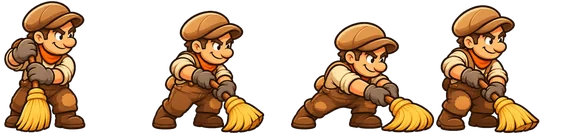
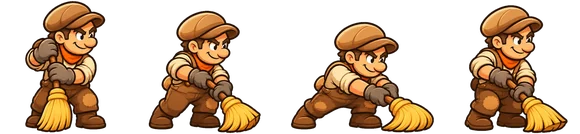
Animazioni di Cane, Gatto, Topo, Gazza (anche con l'uovo), Ladro (anche con l'uovo) e Spaventapasseri colpito; nuova icona dello Spaventapasseri; tutti i fogli ritagliati per forme intere
Claude-Session: https://claude.ai/code/session_01HfaWZ85fbzKyRqfxnb746i

diff --git a/index.html b/index.html
@@ -1388,16 +1388,22 @@ const abilRow=k=>(ABIL[k]||[]).length?`<span class="tabil">${ABIL[k].map(a=>`<im
 // personaggi animati (cartella icons/anim/): striscia orizzontale di n fotogrammi, il personaggio guarda a destra.
 // stride = pixel percorsi per fotogramma; h = altezza in campo. Chi non è qui usa l'icona nel tondino.
 const ANIM={
-  faina:{h:31,stride:7,walk:{n:4,fw:153,fh:131,ax:.5},atk:{n:4,fw:181,fh:130,ax:.47}},
-  mucca:{h:40,stride:6,walk:{n:4,fw:176,fh:134,ax:.5},atk:{n:4,fw:204,fh:139,ax:.409}},
-  tacchino:{h:34,stride:5,walk:{n:4,fw:127,fh:130,ax:.5},atk:{n:4,fw:156,fh:137,ax:.432}},
-  lupo:{h:33,stride:9,walk:{n:4,fw:199,fh:158,ax:.5},atk:{n:4,fw:203,fh:143,ax:.496}},
-  mais:{h:42,st:{n:4,fw:95,fh:130,ax:.501}},
-  spazzino:{h:38,stride:7,walk:{n:4,fw:92,fh:132,ax:.5},atk:{n:4,fw:145,fh:134,ax:.309}},
-  corvo:{h:40,fly:{n:4,fw:151,fh:179,ax:.994,ox:62},atk:{n:4,fw:167,fh:173,ax:.968,ox:62}},
+  faina:{h:31,stride:7,walk:{n:4,fw:153,fh:131,ax:.5},atk:{n:4,fw:181,fh:130,ax:.541}},
+  mucca:{h:40,stride:6,walk:{n:4,fw:175,fh:134,ax:.5},atk:{n:4,fw:204,fh:139,ax:.519}},
+  tacchino:{h:34,stride:5,walk:{n:4,fw:127,fh:130,ax:.5},atk:{n:4,fw:160,fh:137,ax:.46}},
+  lupo:{h:33,stride:9,walk:{n:4,fw:199,fh:158,ax:.5},atk:{n:4,fw:227,fh:143,ax:.472}},
+  cane:{h:31,stride:8,walk:{n:4,fw:185,fh:137,ax:.5},atk:{n:4,fw:199,fh:145,ax:.504}},
+  gatto:{h:29,stride:6,walk:{n:4,fw:145,fh:133,ax:.5},atk:{n:4,fw:177,fh:138,ax:.459}},
+  topi:{h:20,stride:5,walk:{n:4,fw:223,fh:137,ax:.5}},
+  ladro:{h:36,stride:6,walk:{n:4,fw:120,fh:130,ax:.5},carry:{n:4,fw:120,fh:134,ax:.5}},
+  spazzino:{h:38,stride:7,walk:{n:4,fw:92,fh:132,ax:.5},atk:{n:4,fw:145,fh:134,ax:.453}},
+  mais:{h:42,st:{n:4,fw:96,fh:130,ax:.504}},
+  spaventa:{h:44,hit:{n:4,fw:122,fh:143,ax:.514}},
+  corvo:{h:40,fly:{n:4,fw:151,fh:179,ax:.994,ox:62},atk:{n:4,fw:172,fh:173,ax:.983,ox:62}},
+  gazza:{h:40,fly:{n:4,fw:186,fh:193,ax:.994,ox:78},carry:{n:4,fw:184,fh:192,ax:.994,ox:78}},
 };
 // file: icons/anim/<personaggio>-walk|atk|fly.webp; ax = punto d'aggancio nel fotogramma (0 sinistra, 1 destra), ox = suo spostamento dal centro (px a scala 128)
-for(const k in ANIM)for(const m of ['walk','atk','fly','st'])if(ANIM[k][m]){const a=ANIM[k][m];a.im=new Image();a.im.src=`icons/anim/${k}-${m}.webp`}
+for(const k in ANIM)for(const m of ['walk','atk','fly','st','carry','hit'])if(ANIM[k][m]){const a=ANIM[k][m];a.im=new Image();a.im.src=`icons/anim/${k}-${m}.webp`}
 // icone disegnate degli ordini (cartella icons/, file ord-<chiave>.webp); se non si caricano resta l'emoji
 const OIMG={};
 for(const k in ORDERS){ORDERS[k].img='icons/ord-'+k+'.webp';const im=new Image();im.src=ORDERS[k].img;OIMG[k]=im}
@@ -2158,7 +2164,7 @@ function drawToken1(x,y,side,type,star,order,o={}){
   let yy=y; if(d.flying){ctx.fillStyle='rgba(0,0,0,.22)';ctx.beginPath();ctx.ellipse(x,y+10,11,4,0,0,7);ctx.fill();yy=y-12}
   const lx=o.lunge>0?o.face*5:0;
   ctx.globalAlpha=o.invis?.38:o.disguised?.6:1;
-  const A=ANIM[type],ld=a=>a&&a.im.complete&&a.im.naturalWidth,base=A&&(ld(A.walk)?A.walk:ld(A.fly)?A.fly:ld(A.st)?A.st:null),sp=!!base;
+  const A=ANIM[type],ld=a=>a&&a.im.complete&&a.im.naturalWidth,base=A&&(ld(A.walk)?A.walk:ld(A.fly)?A.fly:ld(A.st)?A.st:ld(A.hit)?A.hit:null),sp=!!base;
   if(sp){// personaggio animato: anello ovale del colore della squadra ai piedi, poi il fotogramma giusto
     const fy=y+13,ring=o.col||SIDE[side].col,now=performance.now()/1000;
     if(d.flying){ctx.fillStyle='rgba(0,0,0,.22)';ctx.beginPath();ctx.ellipse(x,y+10,13,4.5,0,0,7);ctx.fill()}
@@ -2168,12 +2174,15 @@ function drawToken1(x,y,side,type,star,order,o={}){
     ctx.strokeStyle=ring;ctx.lineWidth=3;ctx.beginPath();ctx.ellipse(x,ry,16.5,6,0,0,7);ctx.stroke();
     if(star>1){ctx.save();if(star===3){ctx.shadowColor='#ffd54a';ctx.shadowBlur=8}ctx.strokeStyle=star===3?'#ffd54a':'#e6ebf2';ctx.lineWidth=2;ctx.beginPath();ctx.ellipse(x,ry,19.5,7.5,0,0,7);ctx.stroke();ctx.restore()}
     let sh=base,f=0,bob=0;const AT=.08;
+    if(o.carry&&ld(A.carry))sh=A.carry;// con l'uovo in mano: corsa apposita (l'uovo è già disegnato nel foglio)
     if(ld(A.atk)&&o.atk!=null&&o.atk<A.atk.n*AT){sh=A.atk;f=Math.floor(o.atk/AT)}
+    else if(ld(A.hit)&&o.hitAge!=null&&o.hitAge<A.hit.n*.09){sh=A.hit;f=Math.floor(o.hitAge/.09)}// colpito: animazione di danno
+    else if(sh===A.hit){f=0}
     else if(sh===A.st){const h=o.hpf??1;f=h>.75?0:h>.5?1:h>.25?2:3}// oggetti fermi: lo stato dipende dalla vita (il Mais perde pannocchie)
-    else if(sh===A.fly){f=Math.floor(now*9)%sh.n;bob=Math.sin(now*4)*1.5}
+    else if(sh===A.fly||(sh===A.carry&&base===A.fly)){f=Math.floor(now*9)%sh.n;bob=Math.sin(now*4)*1.5}
     else if(o.moving){const ph=(o.walk||0)/A.stride;f=Math.floor(ph)%sh.n;bob=-Math.abs(Math.sin(ph*Math.PI))*1.6}
     const k=A.h/128,fw=sh.fw*k,fh=sh.fh*k,ax=sh.ax*fw-(sh.ox||0)*k,top=d.flying?yy-fh/2+bob:fy+2-fh+bob,px=sh===base&&o.lunge>0?(o.face||1)*4:0;
-    ctx.save();if(o.hit>0)ctx.filter='brightness(1.7) saturate(.6)';
+    ctx.save();if(o.hit>0&&!ld(A.hit))ctx.filter='brightness(1.7) saturate(.6)';
     ctx.translate(x+px,0);if(o.face===-1)ctx.scale(-1,1);ctx.drawImage(sh.im,f*sh.fw,0,sh.fw,sh.fh,-ax,top,fw,fh);
     ctx.restore();ctx.font='17px "Apple Color Emoji","Segoe UI Emoji","Noto Color Emoji",sans-serif';ctx.textAlign='center';ctx.textBaseline='middle';
   }else{
@@ -2313,10 +2322,10 @@ function render(){
   for(const u of us){
     if((S.fog||S.mist)&&u.side!==G.me&&!S.units.some(a=>a.alive&&a.side===G.me&&sees(a,u))) continue;
     if(u.def.wall){const hh=u.def.wall*FENCE_L,f=u.hp/u.maxHp;if(f<1){ctx.fillStyle='rgba(0,0,0,.45)';ctx.fillRect(X(u.x)-14,u.y-hh-11,28,5);ctx.fillStyle=SIDE[C(u.side)].col;ctx.fillRect(X(u.x)-14,u.y-hh-11,28*f,5)}continue}
-    {const dd=u._lx==null?0:Math.hypot(u.x-u._lx,u.y-u._ly);u._wd=(u._wd||0)+(dd<20?dd:0);u._mv=dd>.05&&dd<20?.12:Math.max(0,(u._mv||0)-1/60);u._lx=u.x;u._ly=u.y;if(u.lunge>(u._pl||0)+.001)u._at=performance.now();u._pl=u.lunge}
-    drawToken(X(u.x),u.y,C(u.side),u.type,u.star,u.order,{st:statusOf(u,S),walk:u._wd,moving:u._mv>0,atk:u._at?(performance.now()-u._at)/1000:null,col:G.duo&&duoOwner(u)!=null?duoColOf(duoOwner(u)):null,underground:u.underground,invis:u.invis>0,hpf:u.hp/u.maxHp,stun:u.stun,snare:u.snare,hit:u.hit,lunge:u.lunge,face:F?-u.face:u.face,wait:u.wait,turned:u.turned,disguised:u.disguised,boost:u.boostT});
+    {const dd=u._lx==null?0:Math.hypot(u.x-u._lx,u.y-u._ly);u._wd=(u._wd||0)+(dd<20?dd:0);u._mv=dd>.05&&dd<20?.12:Math.max(0,(u._mv||0)-1/60);u._lx=u.x;u._ly=u.y;if(u.lunge>(u._pl||0)+.001)u._at=performance.now();u._pl=u.lunge;if(u.hit>(u._ph||0)+.001)u._ht=performance.now();u._ph=u.hit}
+    drawToken(X(u.x),u.y,C(u.side),u.type,u.star,u.order,{st:statusOf(u,S),carry:u.carrying!==null,hitAge:u._ht?(performance.now()-u._ht)/1000:null,walk:u._wd,moving:u._mv>0,atk:u._at?(performance.now()-u._at)/1000:null,col:G.duo&&duoOwner(u)!=null?duoColOf(duoOwner(u)):null,underground:u.underground,invis:u.invis>0,hpf:u.hp/u.maxHp,stun:u.stun,snare:u.snare,hit:u.hit,lunge:u.lunge,face:F?-u.face:u.face,wait:u.wait,turned:u.turned,disguised:u.disguised,boost:u.boostT});
     if(u.fake) drawEgg(X(u.x),u.y-(u.def.flying?40:28),.7,false);
-    if(u.carrying!==null) drawEgg(X(u.x),u.y-(u.def.flying?40:28),.7,false);
+    if(u.carrying!==null&&!(ANIM[u.type]&&ANIM[u.type].carry&&ANIM[u.type].carry.im.naturalWidth)) drawEgg(X(u.x),u.y-(u.def.flying?40:28),.7,false);
     if(u.lb>0){ctx.font='11px "Apple Color Emoji","Segoe UI Emoji","Noto Color Emoji",sans-serif';ctx.textAlign='center';ctx.fillText('💨',X(u.x)-(F?-1:1)*u.face*18,u.y-22)}
   }
   for(const t of S.tracers){ctx.globalAlpha=Math.min(1,t.t*7);ctx.strokeStyle=t.col;ctx.lineWidth=2;ctx.beginPath();ctx.moveTo(X(t.x1),t.y1);ctx.lineTo(X(t.x2),t.y2);ctx.stroke();ctx.globalAlpha=1}

diff --git a/sw.js b/sw.js
@@ -2,7 +2,7 @@
 // Pagina e script: prima la rete (così gli aggiornamenti arrivano subito), poi la copia salvata.
 // Immagini: prima la copia salvata. Quando cambi immagini già esistenti, aumenta VERSION.
 // tools/test-pwa.js controlla che tutte le icone siano in PRECACHE.
-const VERSION='ff-v7';
+const VERSION='ff-v8';
 const PRECACHE=[
  "./",
  "index.html",
@@ -33,10 +33,32 @@ const PRECACHE=[
  "icons/coltivatore.webp",
  "icons/corvo.webp",
  "icons/faina.webp",
+ "icons/anim/cane-atk.webp",
+ "icons/anim/cane-walk.webp",
+ "icons/anim/corvo-atk.webp",
+ "icons/anim/corvo-fly.webp",
+ "icons/anim/faina-atk.webp",
+ "icons/anim/faina-walk.webp",
+ "icons/anim/gatto-atk.webp",
+ "icons/anim/gatto-walk.webp",
+ "icons/anim/gazza-carry.webp",
+ "icons/anim/gazza-fly.webp",
+ "icons/anim/ladro-carry.webp",
+ "icons/anim/ladro-walk.webp",
+ "icons/anim/lupo-atk.webp",
+ "icons/anim/lupo-walk.webp",
+ "icons/anim/mais-st.webp",
+ "icons/anim/mucca-atk.webp",
+ "icons/anim/mucca-walk.webp",
+ "icons/anim/spaventa-hit.webp",
+ "icons/anim/spazzino-atk.webp",
+ "icons/anim/spazzino-walk.webp",
+ "icons/anim/tacchino-atk.webp",
+ "icons/anim/tacchino-walk.webp",
+ "icons/anim/topi-walk.webp",
  "icons/nav/market.webp",
  "icons/nav/riserva.webp",
  "icons/nav/squadra.webp",
- "icons/anim/corvo-atk.webp",
  "icons/st/ali.webp",
  "icons/st/ape.webp",
  "icons/st/calamita.webp",
@@ -61,18 +83,6 @@ const PRECACHE=[
  "icons/st/trappola.webp",
  "icons/st/uovofinto.webp",
  "icons/st/zzz.webp",
- "icons/anim/corvo-fly.webp",
- "icons/anim/faina-atk.webp",
- "icons/anim/faina-walk.webp",
- "icons/anim/lupo-atk.webp",
- "icons/anim/lupo-walk.webp",
- "icons/anim/mais-st.webp",
- "icons/anim/tacchino-atk.webp",
- "icons/anim/tacchino-walk.webp",
- "icons/anim/mucca-atk.webp",
- "icons/anim/mucca-walk.webp",
- "icons/anim/spazzino-atk.webp",
- "icons/anim/spazzino-walk.webp",
  "icons/falco.webp",
  "icons/gallico.webp",
  "icons/gatto.webp",

diff --git a/tools/immagini/sheet.py b/tools/immagini/sheet.py
@@ -1,56 +1,52 @@
-# uso: python3 sheet.py input output.webp N modo
-# modo: center (ogni fotogramma centrato su sé stesso: camminate), cell (tutti allineati al primo: attacchi con affondo),
-#       right (allineati sul bordo destro, cioè il muso: volanti con ali che cambiano molto)
-# Toglie lo sfondo bianco, mette tutti i fotogrammi alla stessa scala (altezza tipica = 128 px) e stampa i dati per ANIM.
-import sys,json
+# Striscia di N fotogrammi -> sprite sheet trasparente per ANIM (index.html).
+# uso: [WHITE=248] python3 sheet.py input output.webp N modo
+#   modo: center (ogni fotogramma centrato su sé stesso: camminate), cell (allineati al primo: attacchi con affondo),
+#         right (allineati sul bordo destro: volanti), cellright (allineati al bordo destro del primo)
+#   WHITE: soglia del bianco dello sfondo (228 di default; 248 per personaggi color crema o bianchi)
+# Regola: mai tagliare in celle uguali. Ogni pezzo (forma collegata) va per intero al fotogramma più vicino al suo centro.
+import sys,os,json
 from PIL import Image,ImageFilter
 import numpy as np
 import scipy.ndimage as nd
 src,dst,N=sys.argv[1],sys.argv[2],int(sys.argv[3]);mode=sys.argv[4] if len(sys.argv)>4 else 'center'
-im=Image.open(src).convert('RGB');W,Hh=im.size;cw=W//N
-# confini tra i fotogrammi: le N-1 colonne vuote più larghe (i generatori non fanno celle uguali)
-A=np.array(im).astype(int);ink=(~((A.min(axis=2)>228)&((A.max(axis=2)-A.min(axis=2))<20))).sum(axis=0)>2
-runs=[];x=0
-while x<W:
-    if not ink[x]:
-        y=x
-        while y<W and not ink[y]: y+=1
-        if x>0 and y<W: runs.append((y-x,(x+y)//2))
-        x=y
-    else: x+=1
-cuts=sorted(c for _,c in sorted(runs,reverse=True)[:N-1]);edges=[0]+cuts+[W]
-if len(edges)!=N+1: edges=[i*cw for i in range(N)]+[W]
+WT=int(os.environ.get('WHITE','228'));BASE=int(os.environ.get('BASE','128'))
+im=Image.open(src).convert('RGBA');A=np.array(im).astype(int);H,W=A.shape[:2]
+if A[:,:,3].min()<10: ink=A[:,:,3]>40;white=np.zeros_like(ink)
+else:
+    c=A[:,:,:3];white=(c.min(axis=2)>WT)&((c.max(axis=2)-c.min(axis=2))<(20 if WT<240 else 8))
+    lab,n=nd.label(white);border=set(np.unique(np.concatenate([lab[0],lab[-1],lab[:,0],lab[:,-1]])))-{0}
+    ink=~np.isin(lab,list(border))
+pl,pn=nd.label(ink);sz=nd.sum(ink,pl,range(1,pn+1));com=nd.center_of_mass(ink,pl,range(1,pn+1))
+big=max(sz);owner={}
+for k in range(pn):
+    if sz[k]<max(40,big*.002): continue
+    owner.setdefault(min(N-1,int(com[k][1]/(W/N))),[]).append(k+1)
 frames=[];boxes=[]
 for i in range(N):
-    c=np.array(im.crop((edges[i],0,edges[i+1],Hh))).astype(int);h,w,_=c.shape
-    import os;WT=int(os.environ.get('WHITE','228'));white=(c.min(axis=2)>WT)&((c.max(axis=2)-c.min(axis=2))<(20 if WT<240 else 7))
-    lab,n=nd.label(white);bg=np.zeros((h,w),bool)
-    border=set(np.unique(np.concatenate([lab[0],lab[-1],lab[:,0],lab[:,-1]])))-{0}
-    sz=nd.sum(np.ones_like(lab),lab,range(1,n+1))
-    for k in border: bg|=lab==k
-    # buchi bianchi chiusi: via quelli tra le zampe (in basso) o vicino alla coda (a sinistra); gli occhi (in alto a destra) restano
-    ys,xs=np.where(~bg);by0,by1,bx0,bx1=ys.min(),ys.max(),xs.min(),xs.max()
-    for k,z in enumerate(sz,1):
-        if k in border or z<60: continue
-        yy,xx=np.where(lab==k);cy=(yy.mean()-by0)/(by1-by0);cx=(xx.mean()-bx0)/(bx1-bx0)
-        if cy>.6 or cx<.22: bg|=lab==k
-    a=Image.fromarray(np.where(bg,0,255).astype(np.uint8)).filter(ImageFilter.MinFilter(3)).filter(ImageFilter.GaussianBlur(.8))
-    rgba=Image.fromarray(c.astype(np.uint8)).convert('RGBA');rgba.putalpha(a)
-    am=np.array(a)>40
-    # via i pezzetti staccati (sbavature, puntini)
-    l2,n2=nd.label(am);s2=nd.sum(am,l2,range(1,n2+1));keep=np.isin(l2,[k+1 for k,z in enumerate(s2) if z>=max(s2)*.02])
-    ys,xs=np.where(keep);boxes.append((xs.min(),ys.min(),xs.max()+1,ys.max()+1));frames.append(rgba)
-if mode=='cell': anc=[(boxes[0][0]+boxes[0][2])/2]*N
-elif mode=='cellright': anc=[boxes[0][2]]*N
+    m=np.isin(pl,owner.get(i,[]))
+    ys,xs=np.where(m);y0,y1,x0,x1=ys.min(),ys.max(),xs.min(),xs.max()
+    # buchi bianchi chiusi: via quelli tra le zampe (in basso), vicino alla coda (a sinistra) o grandi e bianchissimi; gli occhi restano
+    hl,hn=nd.label(white&m)
+    for k in range(1,hn+1):
+        r=hl==k;z=r.sum()
+        if z<60: continue
+        yy,xx=np.where(r);cy=(yy.mean()-y0)/max(1,y1-y0);cx=(xx.mean()-x0)/max(1,x1-x0)
+        if cy>.6 or cx<.22 or (z>1500 and A[:,:,:3][r].mean()>251): m&=~r
+    al=Image.fromarray((m*255).astype(np.uint8)).filter(ImageFilter.MinFilter(3)).filter(ImageFilter.GaussianBlur(.8))
+    if A[:,:,3].min()<10: al=Image.fromarray(np.minimum(np.array(al),A[:,:,3].astype(np.uint8)))
+    rgba=im.copy();rgba.putalpha(al);frames.append(rgba);boxes.append((x0,y0,x1+1,y1+1))
+cw=W/N  # nei modi "cell" il punto d'aggancio è la stessa posizione dentro ogni cella del foglio
+if mode=='cell': anc=[(boxes[0][0]+boxes[0][2])/2+i*cw for i in range(N)]
 elif mode=='right': anc=[b[2] for b in boxes]
+elif mode=='cellright': anc=[boxes[0][2]+i*cw for i in range(N)]
 else: anc=[(b[0]+b[2])/2 for b in boxes]
+# ogni fotogramma resta nella sua posizione verticale originale (piedi sulla stessa linea)
 L=max(a-b[0] for a,b in zip(anc,boxes))+3;Rr=max(b[2]-a for a,b in zip(anc,boxes))+3
-y0=min(b[1] for b in boxes)-3;y1=max(b[3] for b in boxes)+3
-import os
-med=sorted(b[3]-b[1] for b in boxes)[N//2];s=int(os.environ.get('BASE','128'))/med
-FW=round((L+Rr)*s);FH=round((y1-y0)*s)
+yt=min(b[1] for b in boxes)-3;yb=max(b[3] for b in boxes)+3
+med=sorted(b[3]-b[1] for b in boxes)[N//2];s=BASE/med
+FW=round((L+Rr)*s);FH=round((yb-yt)*s)
 out=Image.new('RGBA',(FW*N,FH),(0,0,0,0))
 for i,(f,a) in enumerate(zip(frames,anc)):
-    l=int(round(a-L));cr=f.crop((l,y0,l+int(L+Rr),y1)).resize((FW,FH),Image.LANCZOS);out.alpha_composite(cr,(i*FW,0))
+    l=int(round(a-L));cr=f.crop((l,yt,l+int(L+Rr),yb)).resize((FW,FH),Image.LANCZOS);out.alpha_composite(cr,(i*FW,0))
 out.save(dst,'WEBP',quality=86,method=6)
 print(json.dumps({'n':N,'fw':FW,'fh':FH,'ax':round(L/(L+Rr),3)}))

diff --git a/CLAUDE.md b/CLAUDE.md
@@ -11,3 +11,4 @@
 - Le nuove immagini vanno anche in `PRECACHE` di `sw.js`; se si sostituisce un'immagine esistente, aumentare `VERSION`.
 - Sfondo nero: non scontornare per soglia di luminosità (i contorni scuri si fondono con lo sfondo e restano aloni). Chiedere l'immagine su bianco o trasparente.
 - Topi: l'icona resta quella con più topi, ma le animazioni in campo sono di un solo topo (ogni topo è un'unità).
+- Prompt per le immagini: chiedere sempre **transparent background (no background)**, mai "pure white background".
